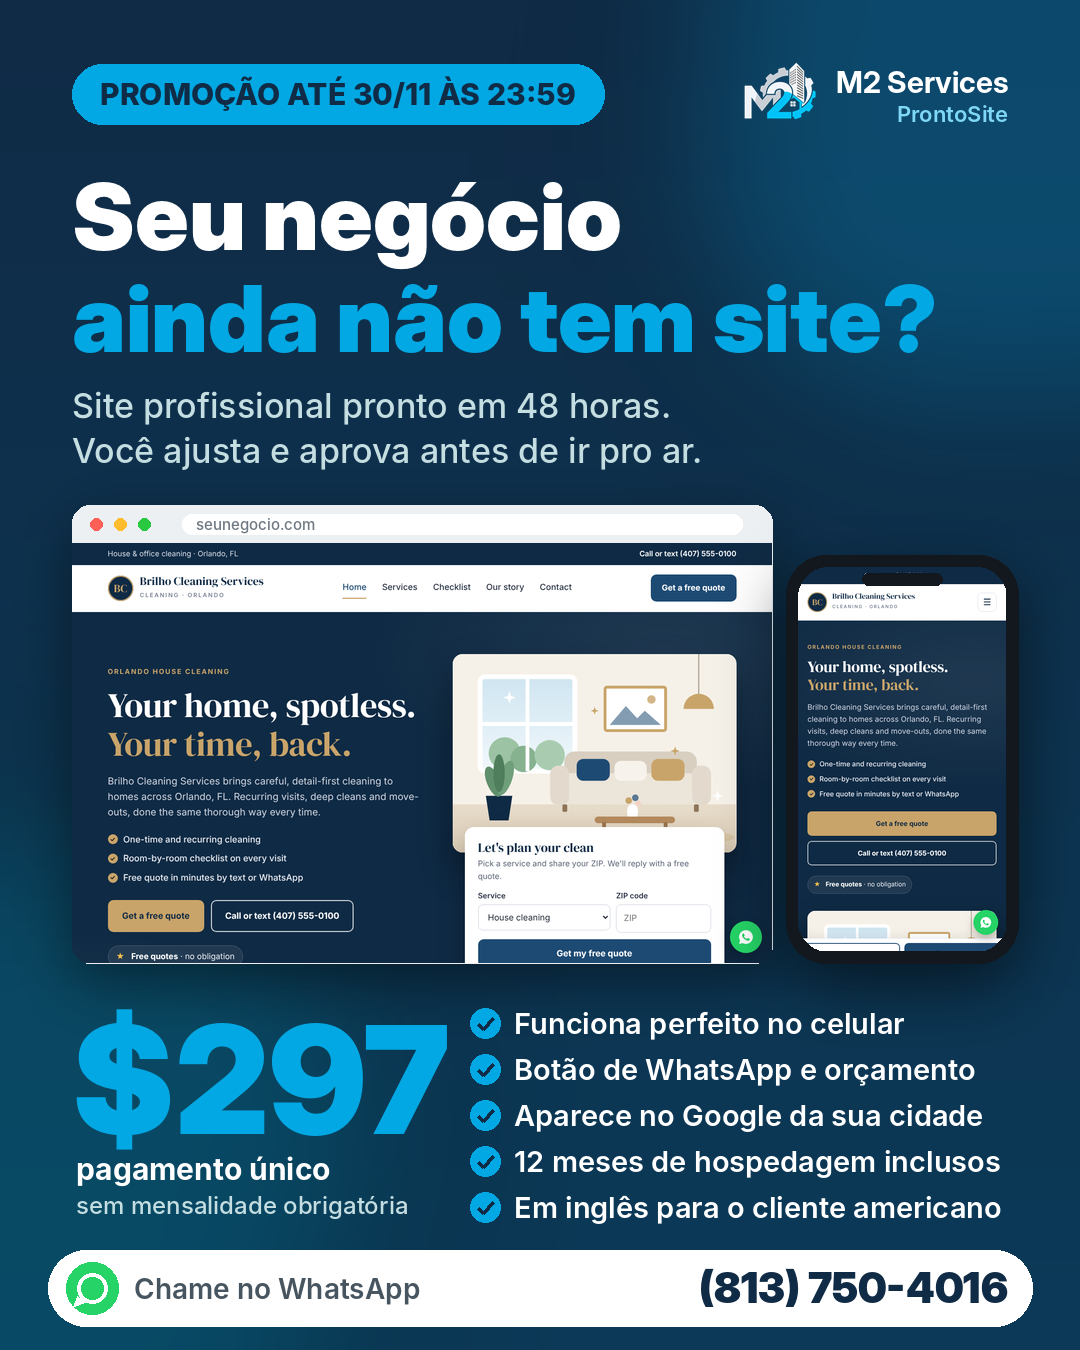
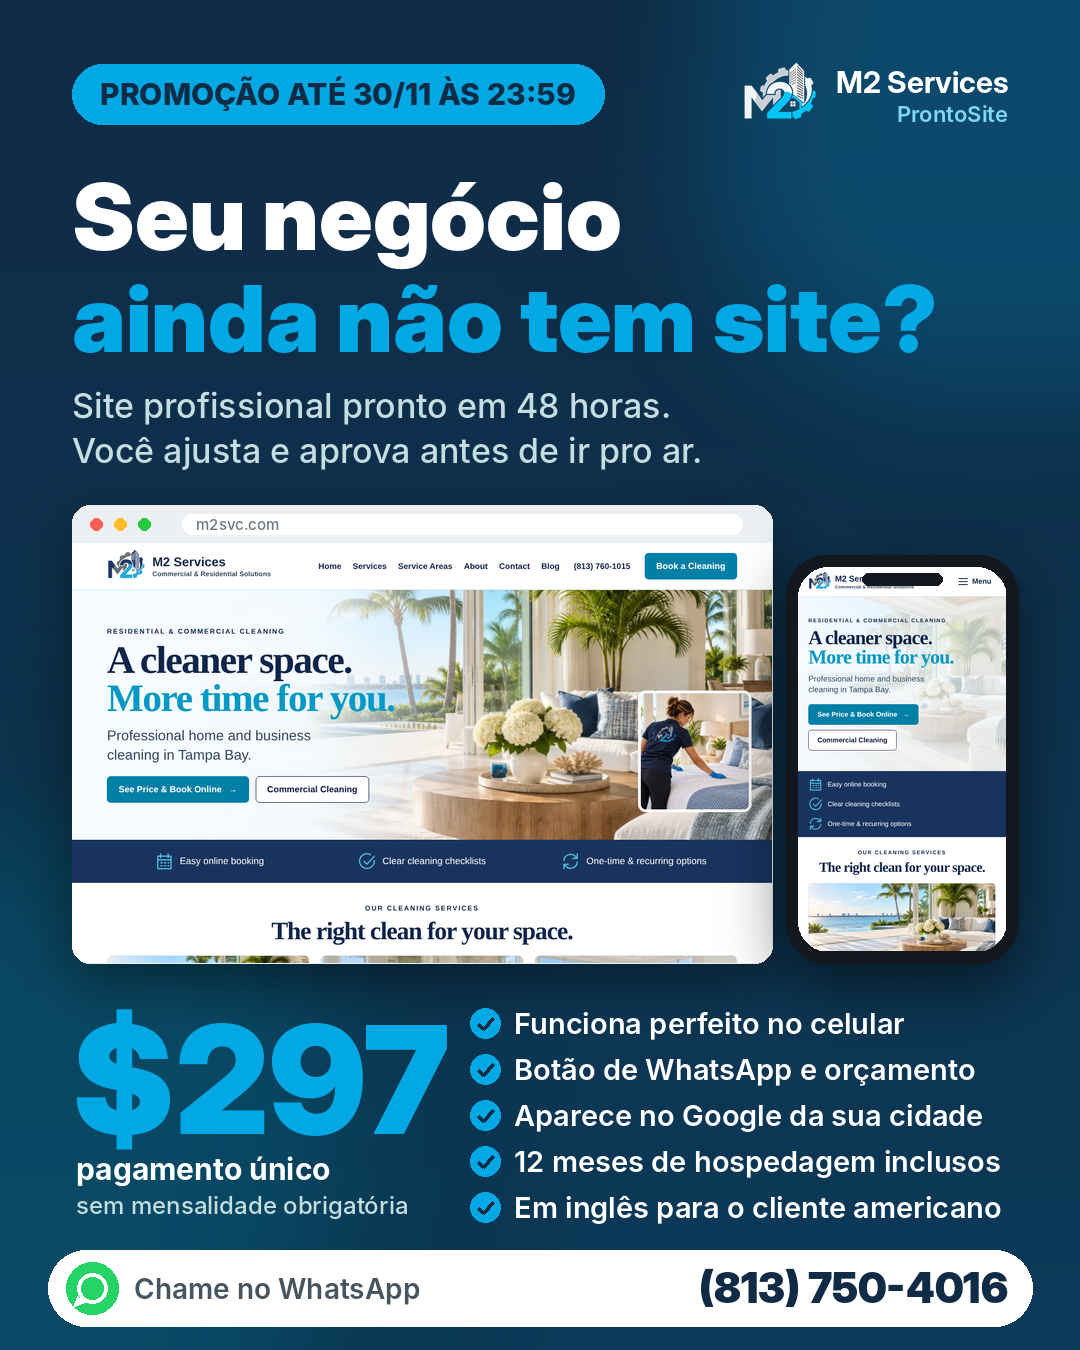
Promo page and flyer: show the real M2 Services site instead of the fictitious demo

Changed region(s): [[0.0611, 0.3733, 0.9472, 0.7156]]

diff --git a/promo/index.html b/promo/index.html
@@ -165,9 +165,9 @@ body.ended .cd b{color:var(--soft)}
         <p class="cd-note live" style="margin-top:12px">Pagamento único e seguro pelo Stripe. Sem mensalidade obrigatória.</p>
       </div>
       <div class="mock">
-        <div class="browser"><div class="top"><i style="background:#ff5f57"></i><i style="background:#ffbd2e"></i><i style="background:#28c940"></i></div><img src="exemplo-desktop.jpg" alt="Exemplo de site ProntoSite no computador" width="1265" height="760"></div>
-        <div class="phone"><img src="exemplo-celular.jpg" alt="O mesmo site no celular" width="485" height="940"></div>
-        <p>Exemplo de site ProntoSite, com uma empresa fictícia.</p>
+        <div class="browser"><div class="top"><i style="background:#ff5f57"></i><i style="background:#ffbd2e"></i><i style="background:#28c940"></i></div><img src="exemplo-desktop.jpg" alt="Site da M2 Services no computador" width="1265" height="760"></div>
+        <div class="phone"><img src="exemplo-celular.jpg" alt="Site da M2 Services no celular" width="485" height="940"></div>
+        <p>Site real da M2 Services, a empresa por trás do ProntoSite.</p>
       </div>
     </div>
   </div>
